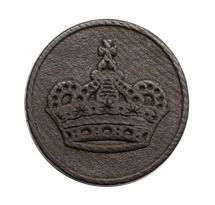
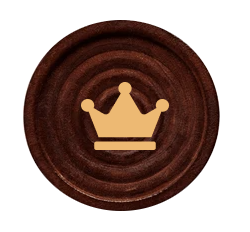
added crowned piece

diff --git a/app/src/components/Engine/GameEngine.tsx b/app/src/components/Engine/GameEngine.tsx
@@ -1,6 +1,8 @@
 import { useState, useEffect, ReactElement } from "react";
 import pieceImgLight from "../../assets/white.png";
 import pieceImgDark from "../../assets/black.png";
+import kingPieceImgLight from "../../assets/whiteKing.png";
+import kingPieceImgDark from "../../assets/blackKing.png";
 import Coordinate from "./Coordinate";
 import { PlayerModel } from "../Player/Player";
 import {
@@ -209,39 +211,45 @@ const GameEngine = (): ReactElement => {
       <div className="flex ">
         {state.board.map((row, rowIndex) => (
           <div key={rowIndex} className="flex flex-col">
-            {row.map((cell, columnIndex) => (
-              <div
-                onClick={() => handlePieceClick(rowIndex, columnIndex)}
-                key={columnIndex}
-                className={`w-16 h-16 flex items-center justify-center cursor-pointer
+            {row.map((cell, columnIndex) => {
+              return (
+                <div
+                  onClick={() => handlePieceClick(rowIndex, columnIndex)}
+                  key={columnIndex}
+                  className={`w-16 h-16 flex items-center justify-center cursor-pointer
                 ${
                   (rowIndex + columnIndex) % 2 === 0
                     ? "bg-[#EDCC8F]"
                     : "bg-[#855E44]"
                 }
                     `}
-              >
-                {cell && (
-                  <img
-                    src={
-                      cell.color === PieceColor.BLACK
-                        ? pieceImgDark
-                        : pieceImgLight
-                    }
-                    alt={
-                      cell.color === PieceColor.BLACK
-                        ? "Black Piece"
-                        : "White Piece"
-                    }
-                    className={`w-12 rounded-full   ${
-                      isCellSelected(rowIndex, columnIndex)
-                        ? "animate-scaling"
-                        : ""
-                    }`}
-                  />
-                )}
-              </div>
-            ))}
+                >
+                  {cell && (
+                    <img
+                      src={
+                        cell.crowned
+                          ? cell.color === PieceColor.BLACK
+                            ? kingPieceImgDark
+                            : kingPieceImgLight
+                          : cell.color === PieceColor.BLACK
+                          ? pieceImgDark
+                          : pieceImgLight
+                      }
+                      alt={
+                        cell.color === PieceColor.BLACK
+                          ? "Black Piece"
+                          : "White Piece"
+                      }
+                      className={`w-12 rounded-full   ${
+                        isCellSelected(rowIndex, columnIndex)
+                          ? "animate-scaling"
+                          : ""
+                      }`}
+                    />
+                  )}
+                </div>
+              );
+            })}
           </div>
         ))}
       </div>
